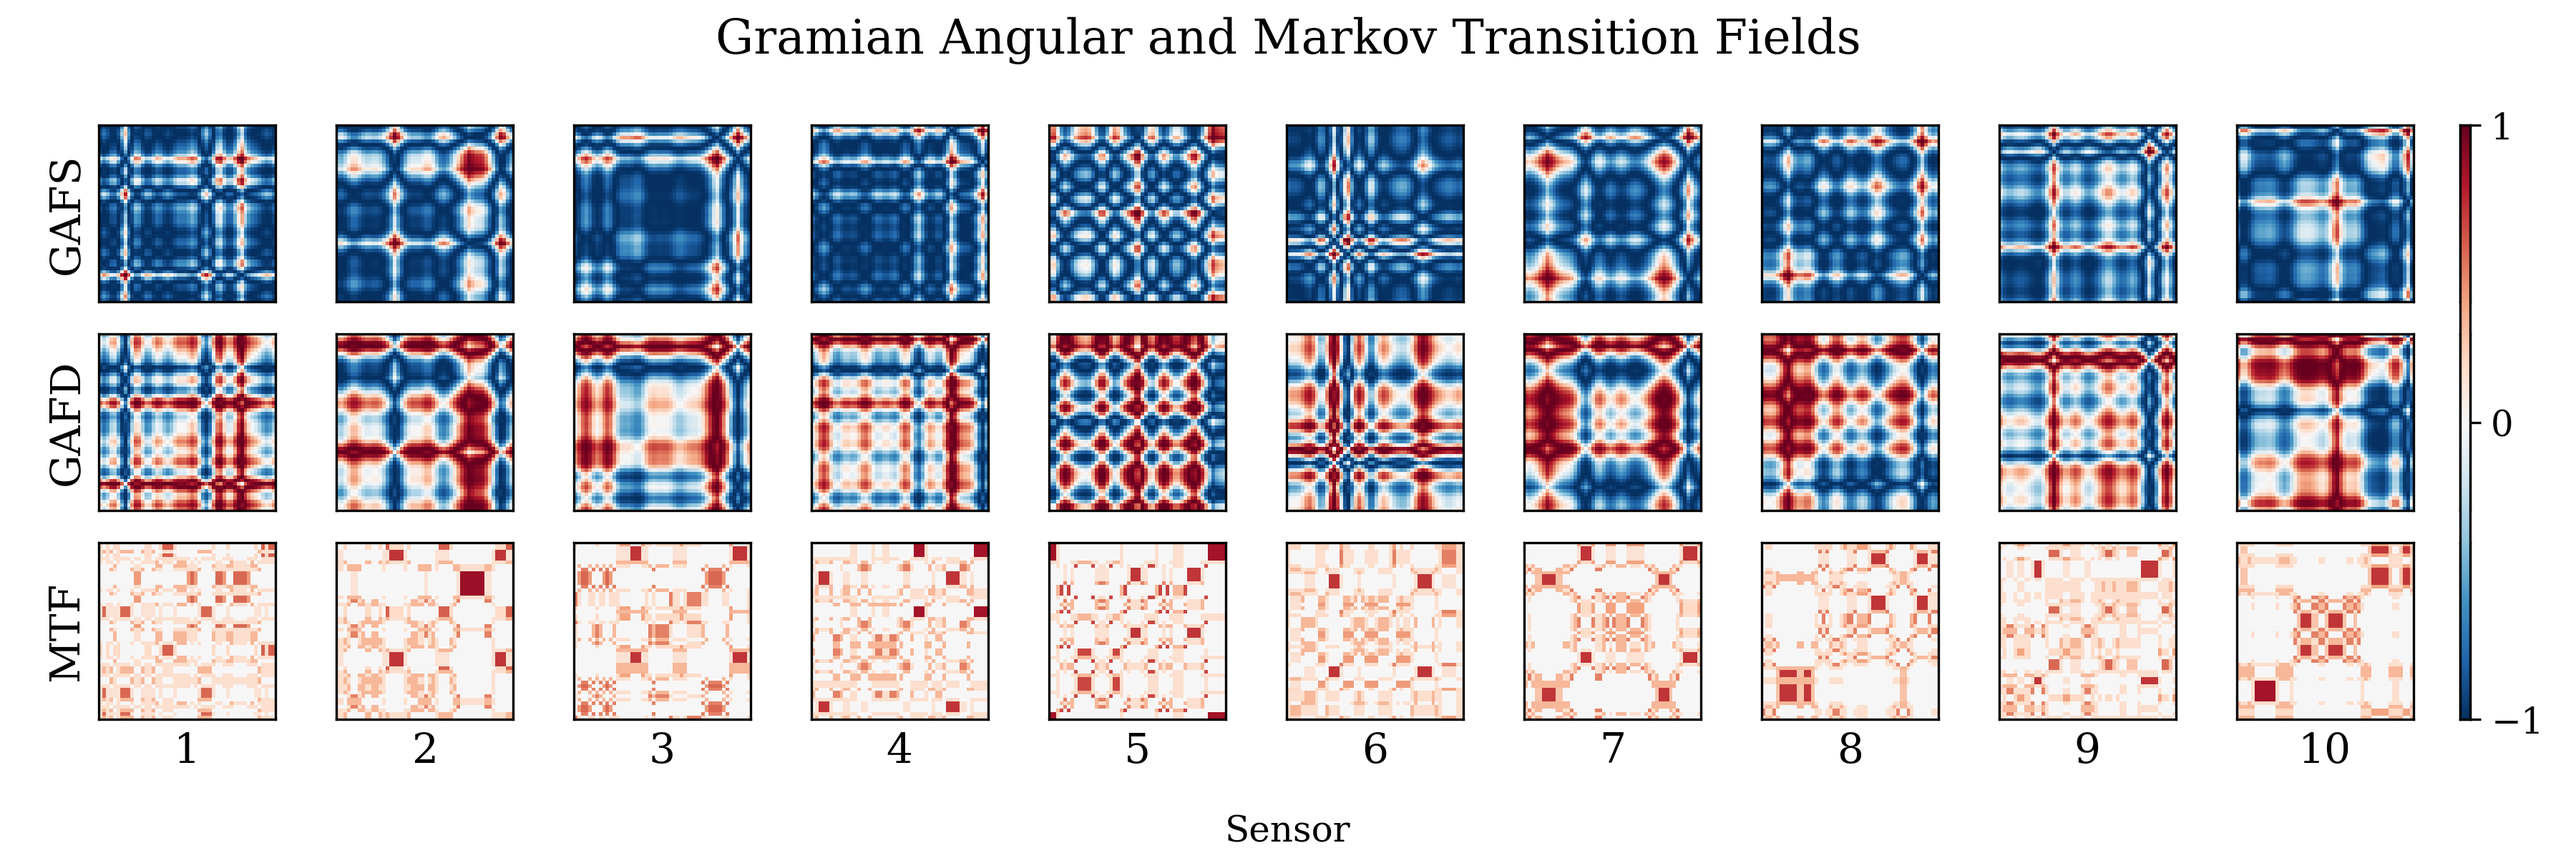
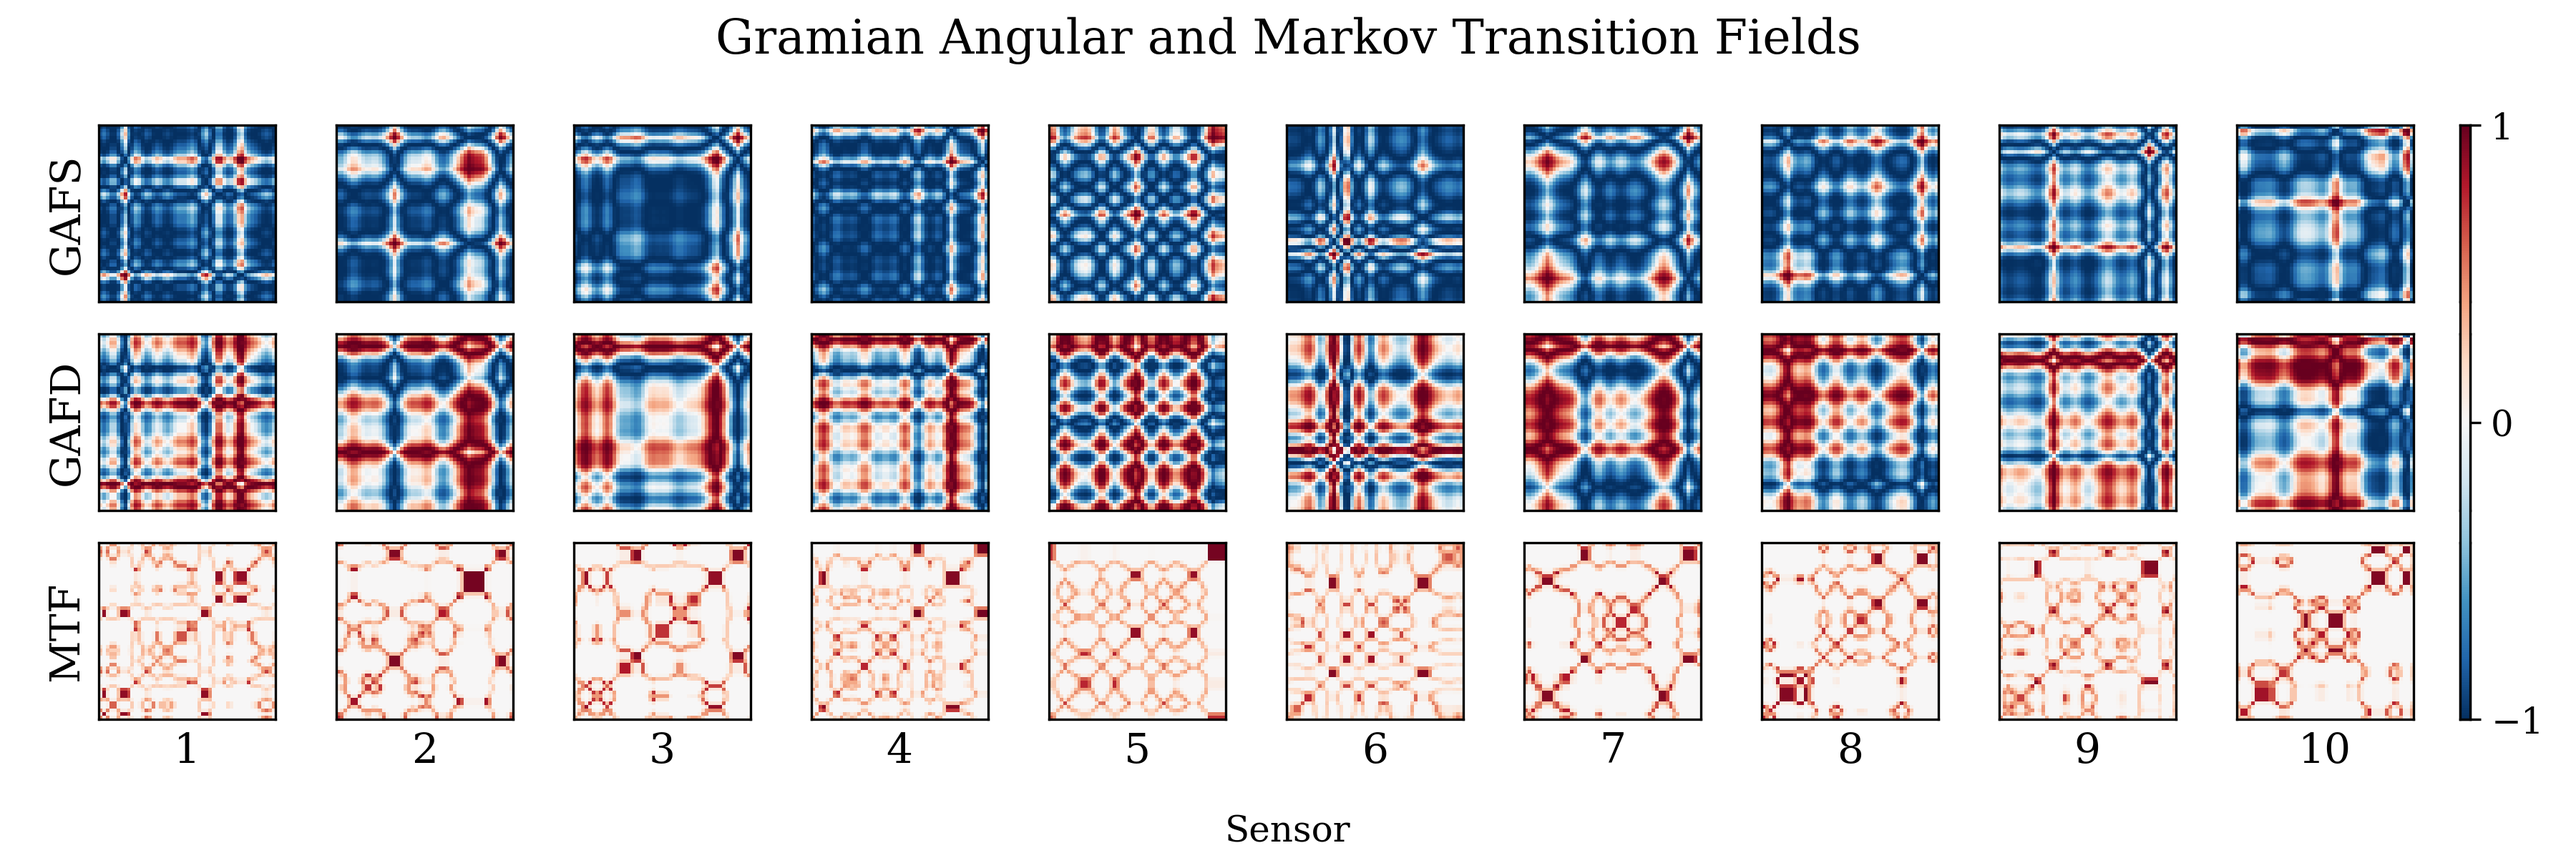
update after new structure for gafs

diff --git a/src/plot_gaf.py b/src/plot_gaf.py
@@ -62,6 +62,6 @@ def main_plotter(gaf_path: Path, save_path:Path = None):
 if __name__ in "__main__":
     path = Path(__file__).parents[1]
 
-    gaf_path = path / "data" / "gaf" / "sub-01_0_0.npy"
+    gaf_path = path / "data" / "gaf" / "sub-01" / "trial_0_label_0.npy"
     plot_path = path / "data" / "gaf_sub-01_0_0.png"
     main_plotter(gaf_path, save_path=plot_path)
